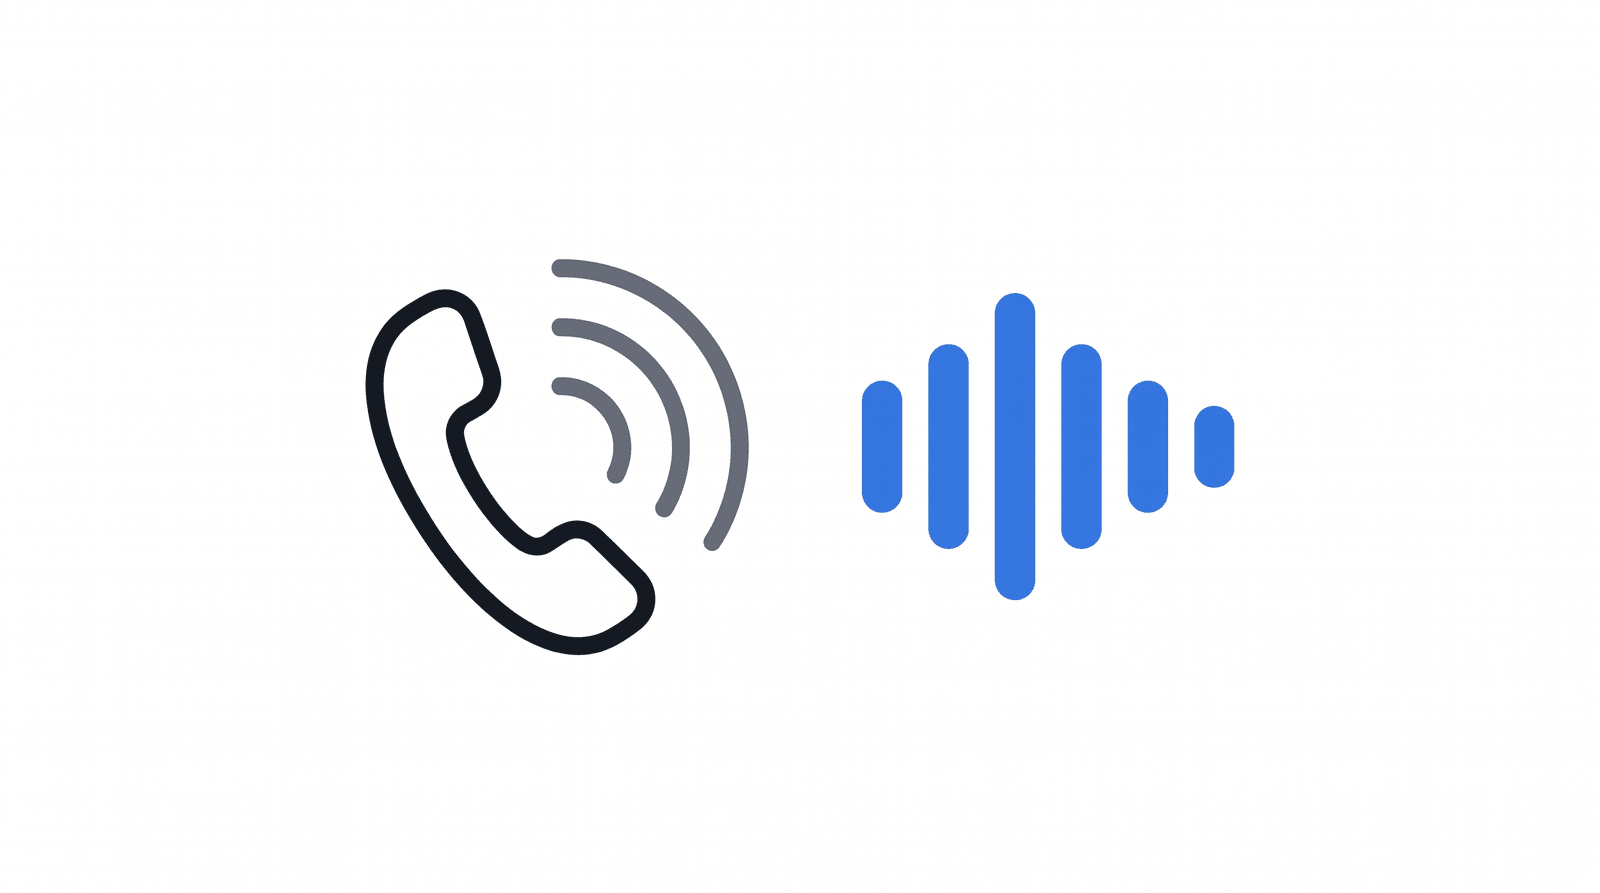
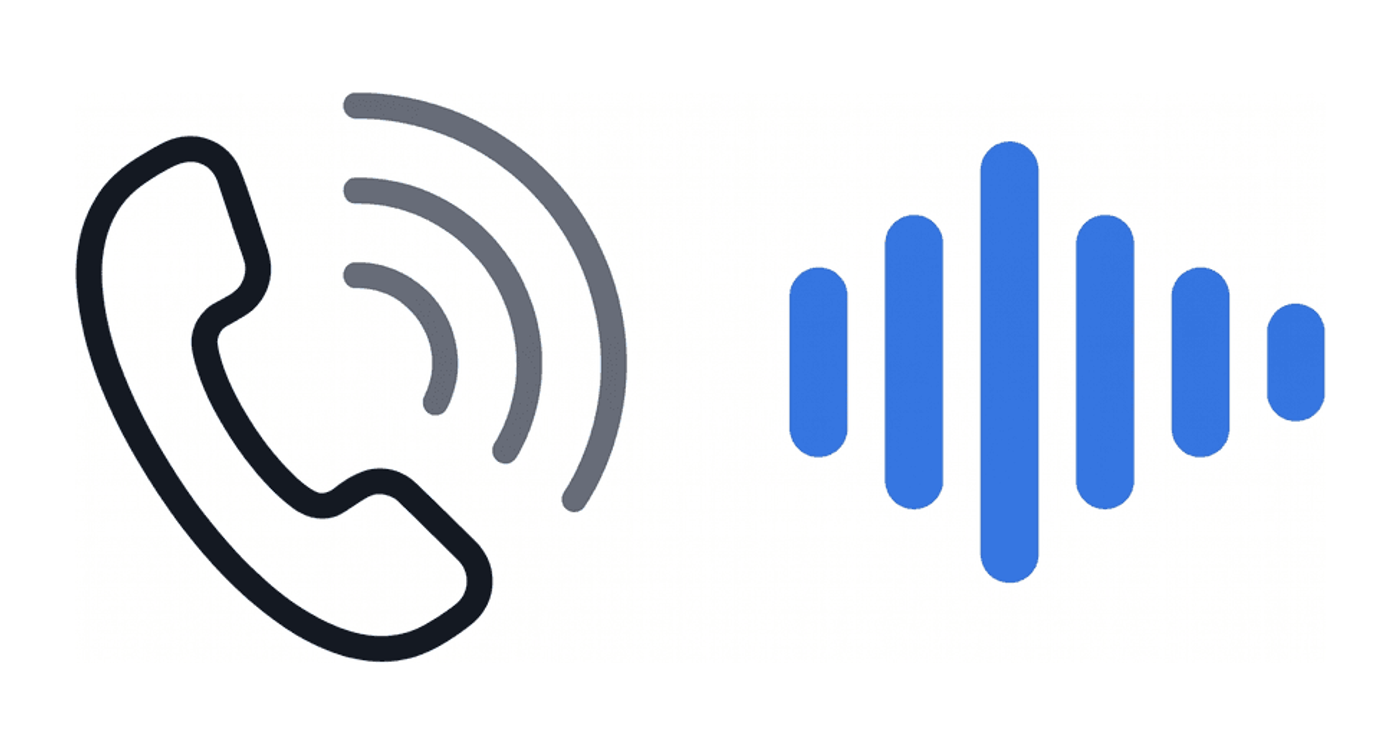
サービスページ: キービジュアルの余白を詰めて真っ白に見える問題を修正
生成した画像は白背景に細い線画で、上下に大きな余白が入っていた。
白いページ上に1184x662pxで表示されると、図の占める面積が小さく
「画像部分が真っ白」に見える状態だった。

- 画像の周囲の余白を刈り取り、図の高さに対して一定比率の余白だけを
  残すように再生成した。結果、表示面積に対する図の占有率が上がった
  （例: ai-sales 1184x662 → 1184x483、salesforce-ai は 1184x345）
- 縦横比は図の内容によって変わるため、幅高さの指定を固定値から
  画像ごとの実寸に変更し、読み込み時のレイアウトずれを防いだ
- ファイルサイズも 350KB前後 → 160〜220KB に軽くなった

Claude-Session: https://claude.ai/code/session_01L86CpKAr6wtnyRfgnQMZLY

Changed region(s): [[0.0307, 0.1219, 0.4914, 0.8834], [0.5221, 0.1828, 0.9521, 0.7921]]

diff --git a/serviceContent.ts b/serviceContent.ts
@@ -24,6 +24,8 @@ export type ServicePage = {
   seoDescription: string;
   image: string;
   imageAlt: string;
+  imageWidth: number;
+  imageHeight: number;
   hero: { badge: string; title: string; titleSub: string; lead: string; points: string[] };
   sections: ServiceSection[];
   cta: { heading: string; lead: string; button: string; sub: string; secondary: string; secondaryHref: string };
@@ -40,6 +42,8 @@ export const serviceContent: Content = {
       seoTitle: 'AI営業サービス｜アポイント獲得までをAIに任せる - ＭＧＣ株式会社',
       seoDescription: 'リスト作成から初回接触・返信対応・日程調整まで、営業の前工程をAIが担います。人が商談に集中できる状態をつくる、AI営業サービス。',
       image: '/assets/service/ai-sales.png',
+      imageWidth: 1400,
+      imageHeight: 570,
       imageAlt: '多数の見込み客リストがAIによって絞り込まれ、1件の商談につながる流れを表した図',
       hero: {
         badge: 'AI Sales',
@@ -199,6 +203,8 @@ export const serviceContent: Content = {
       seoTitle: 'AI電話（音声AI）｜電話の一次対応を自動化 - ＭＧＣ株式会社',
       seoDescription: '鳴り続ける電話の一次対応を音声AIが引き受けます。プッシュ操作のIVRとは違い、用件を話し言葉のまま聞き取り、要約して担当者に渡します。',
       image: '/assets/service/ai-phone.png',
+      imageWidth: 1400,
+      imageHeight: 755,
       imageAlt: '受話器から広がる音声波形を表した、音声AIによる電話対応のイメージ図',
       hero: {
         badge: 'Voice AI',
@@ -363,6 +369,8 @@ export const serviceContent: Content = {
       seoTitle: 'Salesforce AI活用支援｜入力する箱から、動く仕組みへ - ＭＧＣ株式会社',
       seoDescription: 'Salesforceを「入力する箱」で終わらせないためのAI活用支援。入力の自動化、示唆の提示、エージェントによる実行まで、標準機能で足りるかの判断から支援します。',
       image: '/assets/service/salesforce-ai.png',
+      imageWidth: 1400,
+      imageHeight: 406,
       imageAlt: 'CRMのデータ層が積み重なり、上位の層へ流れていく様子を表した図',
       hero: {
         badge: 'Salesforce × AI',
@@ -544,6 +552,8 @@ export const serviceContent: Content = {
       seoTitle: 'AI Sales Service | Let AI handle everything up to the meeting - MGC Inc.',
       seoDescription: 'From list building to first contact, follow-up and scheduling, AI handles the front end of sales so your people can focus on the conversations that matter.',
       image: '/assets/service/ai-sales.png',
+      imageWidth: 1400,
+      imageHeight: 570,
       imageAlt: 'Diagram showing a large pool of prospects narrowing down to a single booked meeting',
       hero: {
         badge: 'AI Sales',
@@ -701,6 +711,8 @@ export const serviceContent: Content = {
       seoTitle: 'Voice AI for phone handling | Automate first response - MGC Inc.',
       seoDescription: 'Voice AI answers your incoming calls, understands the request in natural speech, summarises it and passes on only what needs a person.',
       image: '/assets/service/ai-phone.png',
+      imageWidth: 1400,
+      imageHeight: 755,
       imageAlt: 'Diagram of a handset with a voice waveform, representing AI-handled phone response',
       hero: {
         badge: 'Voice AI',
@@ -863,6 +875,8 @@ export const serviceContent: Content = {
       seoTitle: 'Salesforce AI enablement | From a data entry box to a working system - MGC Inc.',
       seoDescription: 'Make Salesforce more than a place to type. We reduce data entry, surface insight from what you have, and judge honestly whether standard AI features are enough.',
       image: '/assets/service/salesforce-ai.png',
+      imageWidth: 1400,
+      imageHeight: 406,
       imageAlt: 'Diagram of CRM data layers feeding upward into higher-level automation',
       hero: {
         badge: 'Salesforce × AI',

diff --git a/App.tsx b/App.tsx
@@ -2061,8 +2061,8 @@ const ServiceView: React.FC<{ serviceKey: ServiceKey }> = ({ serviceKey }) => {
               <img
                 src={page.image}
                 alt={page.imageAlt}
-                width={1600}
-                height={893}
+                width={page.imageWidth}
+                height={page.imageHeight}
                 loading="eager"
                 className="w-full h-auto rounded-[1.75rem] md:rounded-[2.5rem] border border-gray-200 mt-6 md:mt-8 bg-white"
               />
